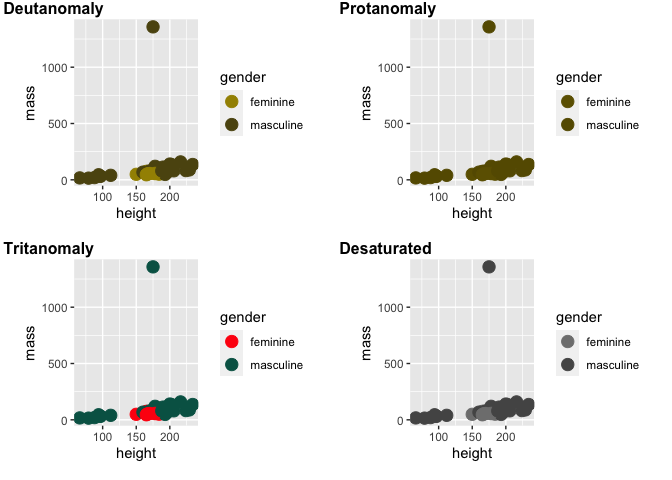
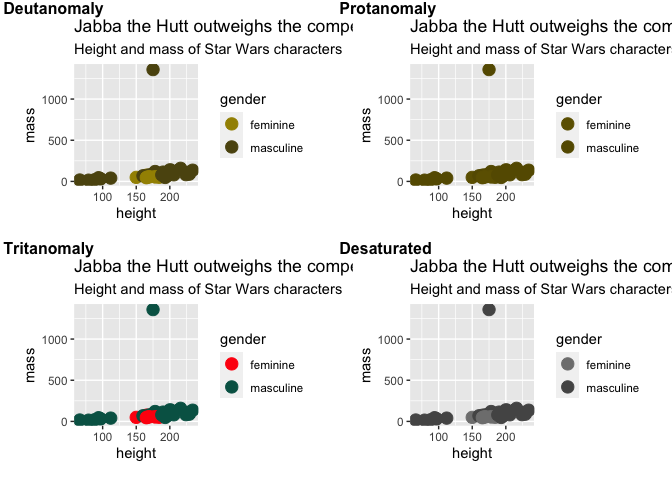
✨AI✨ alt text generator

diff --git a/README.md b/README.md
@@ -3,6 +3,7 @@ Ra11y: A collection of accessibilty features for ggplot2 charts
 
 - [Colour blindness](#colour-blindness)
 - [Alt text](#alt-text)
+  - [Auto-generating alt text](#auto-generating-alt-text)
 - [Contrast](#contrast)
 - [Todo](#todo)
 
@@ -41,7 +42,9 @@ starwars <- dplyr::starwars |>
 starwars_plot <- starwars |>
   ggplot(aes(x = height, y = mass, colour = gender)) +
   geom_point(size = 4) +
-  scale_colour_manual(values = c("red", "darkgreen"))
+  scale_colour_manual(values = c("red", "darkgreen")) +
+  labs(title = "Jabba the Hutt outweighs the competion",
+       subtitle = "Height and mass of Star Wars characters")
 
 starwars_plot
 ```
@@ -96,10 +99,10 @@ test_plot(starwars_plot, test = "alt")
 Let’s add some alt text.
 
 ``` r
-starwars_plot <- starwars_plot +
+starwars_plot_with_alt <- starwars_plot +
   labs(alt = paste0("Scatter plot of Star Wars characters, with height plotted on the x-axis and mass on the y-axis. The dots are coloured by gender. Generally-speaking, height and mass are correlated. The heaviest character is ", starwars$name[starwars$mass == max(starwars$mass)], "."))
 
-test_plot(starwars_plot, test = "alt")
+test_plot(starwars_plot_with_alt, test = "alt")
 ```
 
 ![](README_files/figure-gfm//unnamed-chunk-8.svg)<!-- -->
@@ -110,13 +113,23 @@ alt text for charts that end up being published online.
 Of course, you can run both tests in one go.
 
 ``` r
-test_plot(starwars_plot)
+test_plot(starwars_plot_with_alt)
 ```
 
 ![](README_files/figure-gfm//unnamed-chunk-9.svg)<!-- -->
 
 Additionally, I would recommend checking your plot’s spelling (including
 the alt text) with [`ggspell`](https://github.com/nicucalcea/ggspell).
+
+## Auto-generating alt text
+
+You can also generate alt text automatically using ✨AI✨.
+
+``` r
+alt_text_suggest(starwars_plot)
+```
+
+    ## ℹ Scatter plot comparing the height and mass of Star Wars characters, with gender represented by color. Jabba Desilijic Tiure stands out as an outlier with a mass of 1358 and a height of 175.
 
 # Contrast
 
@@ -146,7 +159,7 @@ ggplot(grid_data, aes(X, Y, fill = Z)) +
   geom_text(aes(label = Y, !!!autocontrast))
 ```
 
-![](README_files/figure-gfm/unnamed-chunk-11-1.png)<!-- -->
+![](README_files/figure-gfm/unnamed-chunk-12-1.png)<!-- -->
 
 # Todo
 
